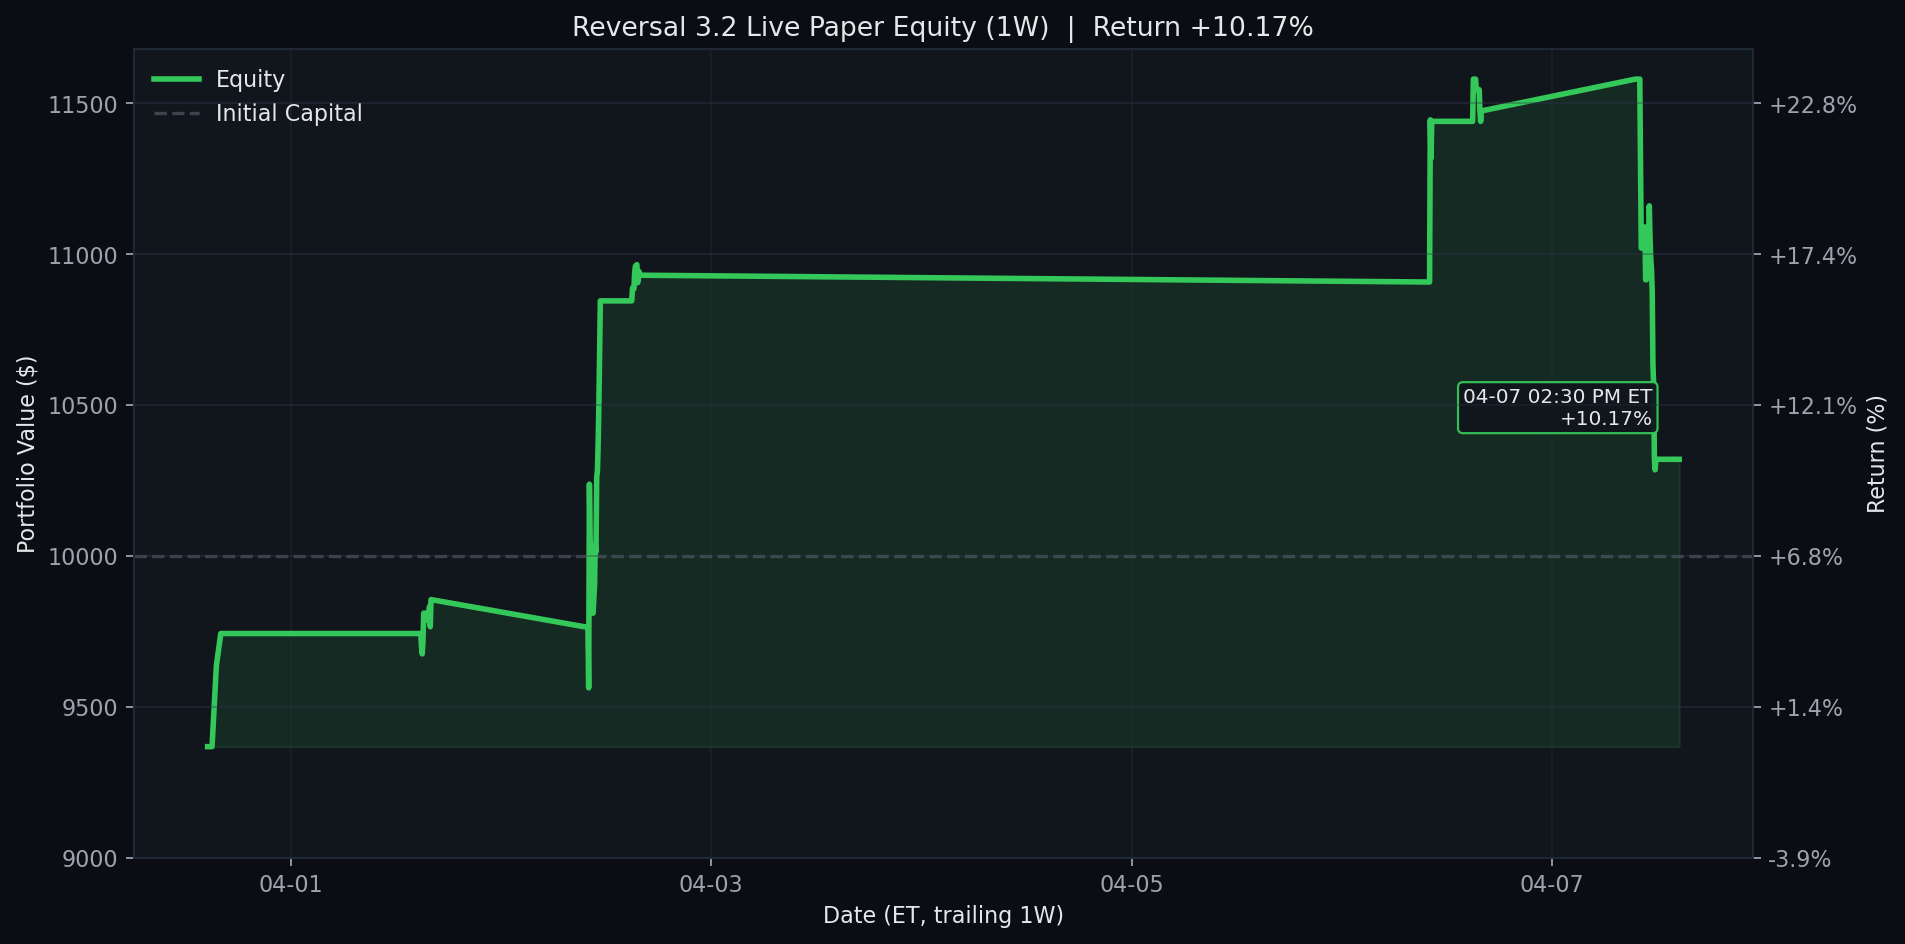
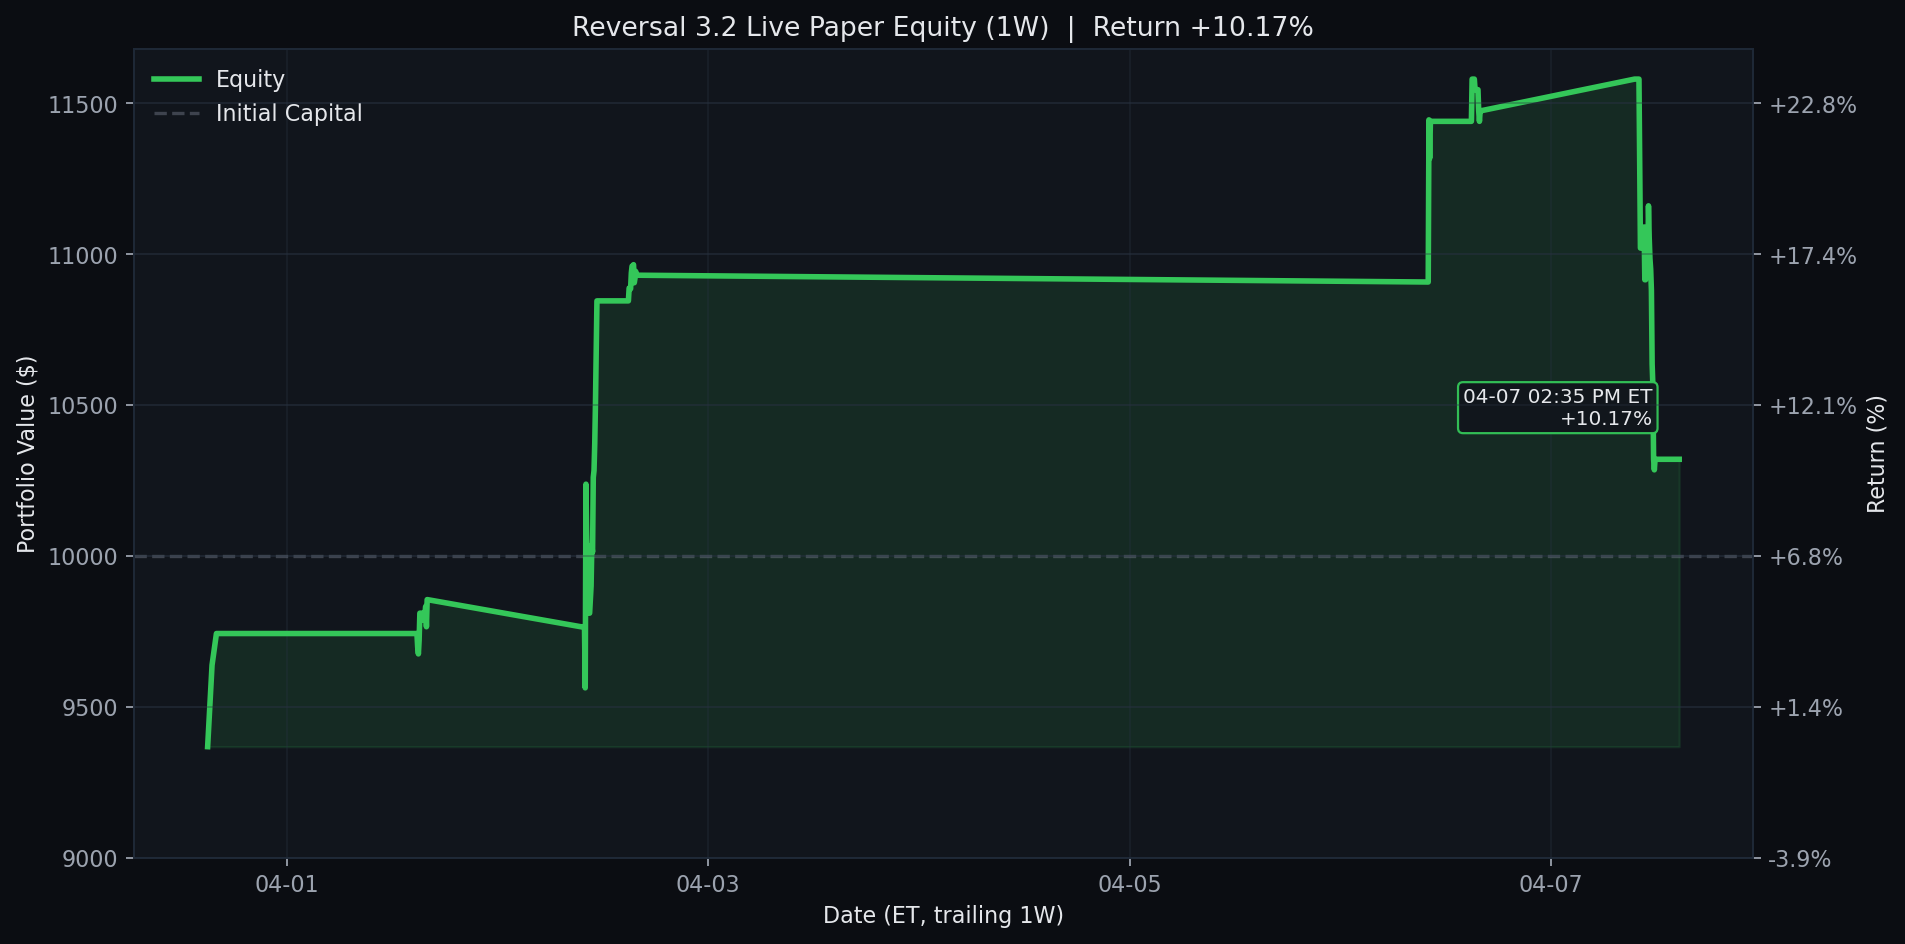
Update Reversal 3.2 live paper test 2026-04-07 14:35 ET

diff --git a/results/reversal_3_2_live/README.md b/results/reversal_3_2_live/README.md
@@ -1,6 +1,6 @@
 # Reversal 3.2 Live Paper Test
 
-Last updated (ET): `2026-04-07 14:30:00 EDT`
+Last updated (ET): `2026-04-07 14:35:00 EDT`
 Last processed slot: `manage_1430`
 
 ## Active Configuration
@@ -40,24 +40,25 @@ ticker    contract_symbol entry_trade_date_et exit_trade_date_et  entry_option_p
 
 ```text
 ticker  success_rate_%  matched_signals  current_drop_%  target_rebound_$  target_price  rolling_sigma_20d_%  call_candidate
-  MRVL           97.06               34            1.20              0.92        109.12                70.84            True
-  NVDA           92.59               27            1.12              1.39        177.04                33.70            True
-  COST           92.31               13            1.08              7.68       1015.26                13.04            True
-  UPRO           90.32               31            1.26              0.89        100.36                53.86            True
-   LIN           90.00               10            1.36              4.74        497.44                19.02            True
-  ORLY           89.74               39            0.63              0.41         91.96                23.11            True
-   KDP           89.47               19            0.54              0.10         25.66                20.32            True
-  CDNS           89.13               46            0.58              1.14        278.90                25.26            True
-  SNPS           88.89               45            0.62              1.74        396.33                35.70            True
-  PCAR           88.89               36            0.75              0.62        118.05                21.97            True
-  ASML           88.24               34            0.78              7.13       1300.95                47.16            True
-  VRTX           87.50               40            0.62              1.88        433.50                40.01            True
+  REGN           97.37               38            0.54              2.88        761.80                25.24            True
+  MRVL           97.06               34            1.21              0.93        109.11                70.84            True
+  NVDA           92.59               27            1.08              1.34        177.07                33.70            True
+  COST           91.67               12            1.13              8.09       1015.08                13.04            True
+  UPRO           90.32               31            1.31              0.92        100.34                53.86            True
+   LIN           90.00               10            1.39              4.85        497.39                19.02            True
+   KDP           89.47               19            0.56              0.10         25.66                20.32            True
+  SNPS           88.89               45            0.55              1.54        396.41                35.70            True
+  ASML           88.57               35            0.71              6.51       1301.22                47.16            True
+  ORLY           88.57               35            0.69              0.45         91.94                23.11            True
+   CSX           88.46               26            0.58              0.17         41.41                24.91            True
+  PCAR           88.24               34            0.81              0.67        118.03                21.97            True
 ```
 
 ## Recent Events
 
 ```text
                     timestamp_et        slot   event_type                          detail
+2026-04-07T14:35:00.890525-04:00 manage_1430 slot_skipped {"reason": "already_processed"}
 2026-04-07T14:30:00.927122-04:00 manage_1430 slot_skipped {"reason": "already_processed"}
 2026-04-07T14:25:01.881173-04:00 manage_1430 slot_skipped {"reason": "already_processed"}
 2026-04-07T14:10:00.879771-04:00 manage_1400 slot_skipped {"reason": "already_processed"}
@@ -67,7 +68,6 @@ ticker  success_rate_%  matched_signals  current_drop_%  target_rebound_$  targe
 2026-04-07T13:40:00.942700-04:00 manage_1330 slot_skipped {"reason": "already_processed"}
 2026-04-07T13:35:03.883059-04:00 manage_1330 slot_skipped {"reason": "already_processed"}
 2026-04-07T13:30:05.887210-04:00 manage_1330 slot_skipped {"reason": "already_processed"}
-2026-04-07T13:25:05.882654-04:00 manage_1330 slot_skipped {"reason": "already_processed"}
 ```
 
 ## Equity Curves
@@ -77,20 +77,20 @@ Each chart is generated from the same live equity series with no-lookahead marks
 <details>
 <summary><strong>1D</strong></summary>
 
-![Reversal 3.2 Live Equity 1D](../../assets/reversal_3_2_live_equity_1d.png?v=20260407143000)
+![Reversal 3.2 Live Equity 1D](../../assets/reversal_3_2_live_equity_1d.png?v=20260407143500)
 
 </details>
 
 <details open>
 <summary><strong>1W</strong></summary>
 
-![Reversal 3.2 Live Equity 1W](../../assets/reversal_3_2_live_equity.png?v=20260407143000)
+![Reversal 3.2 Live Equity 1W](../../assets/reversal_3_2_live_equity.png?v=20260407143500)
 
 </details>
 
 <details>
 <summary><strong>1M</strong></summary>
 
-![Reversal 3.2 Live Equity 1M](../../assets/reversal_3_2_live_equity_1m.png?v=20260407143000)
+![Reversal 3.2 Live Equity 1M](../../assets/reversal_3_2_live_equity_1m.png?v=20260407143500)
 
 </details>

diff --git a/README.md b/README.md
@@ -3,7 +3,7 @@
 <!-- reversal-3.2-live:start -->
 ## Reversal 3.2 Live Paper Test
 
-- Last updated (ET): `2026-04-07 14:30:00 EDT`
+- Last updated (ET): `2026-04-07 14:35:00 EDT`
 - Equity: `$10,320.00` | Realized: `$320.00` | Unrealized: `$0.00` | Open positions: `0`
 - Today closed trades: `1`
 - Current slot: `manage_1430`
@@ -17,21 +17,21 @@ _None_
 <details>
 <summary><strong>1D</strong></summary>
 
-![Reversal 3.2 Live Equity 1D](assets/reversal_3_2_live_equity_1d.png?v=20260407143000)
+![Reversal 3.2 Live Equity 1D](assets/reversal_3_2_live_equity_1d.png?v=20260407143500)
 
 </details>
 
 <details open>
 <summary><strong>1W</strong></summary>
 
-![Reversal 3.2 Live Equity 1W](assets/reversal_3_2_live_equity.png?v=20260407143000)
+![Reversal 3.2 Live Equity 1W](assets/reversal_3_2_live_equity.png?v=20260407143500)
 
 </details>
 
 <details>
 <summary><strong>1M</strong></summary>
 
-![Reversal 3.2 Live Equity 1M](assets/reversal_3_2_live_equity_1m.png?v=20260407143000)
+![Reversal 3.2 Live Equity 1M](assets/reversal_3_2_live_equity_1m.png?v=20260407143500)
 
 </details>
 
